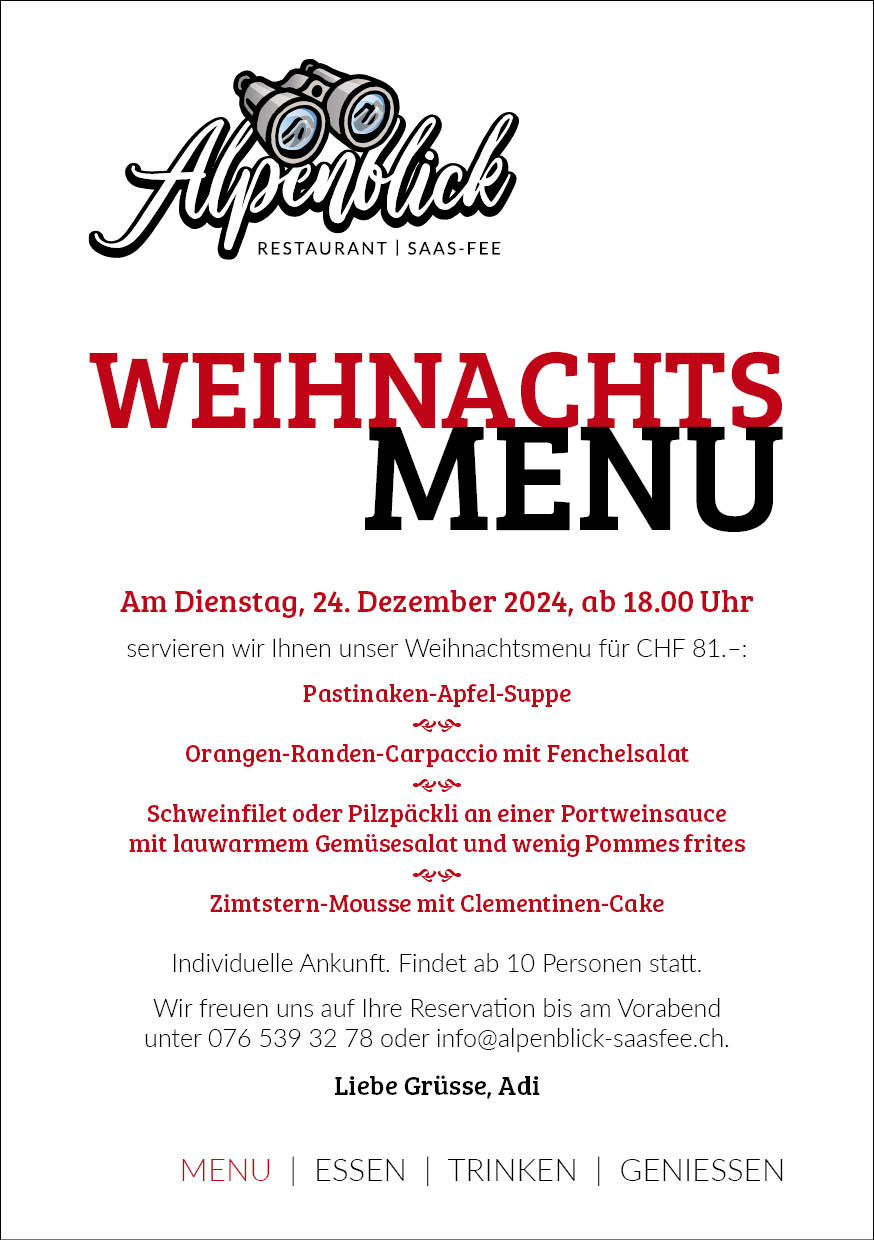
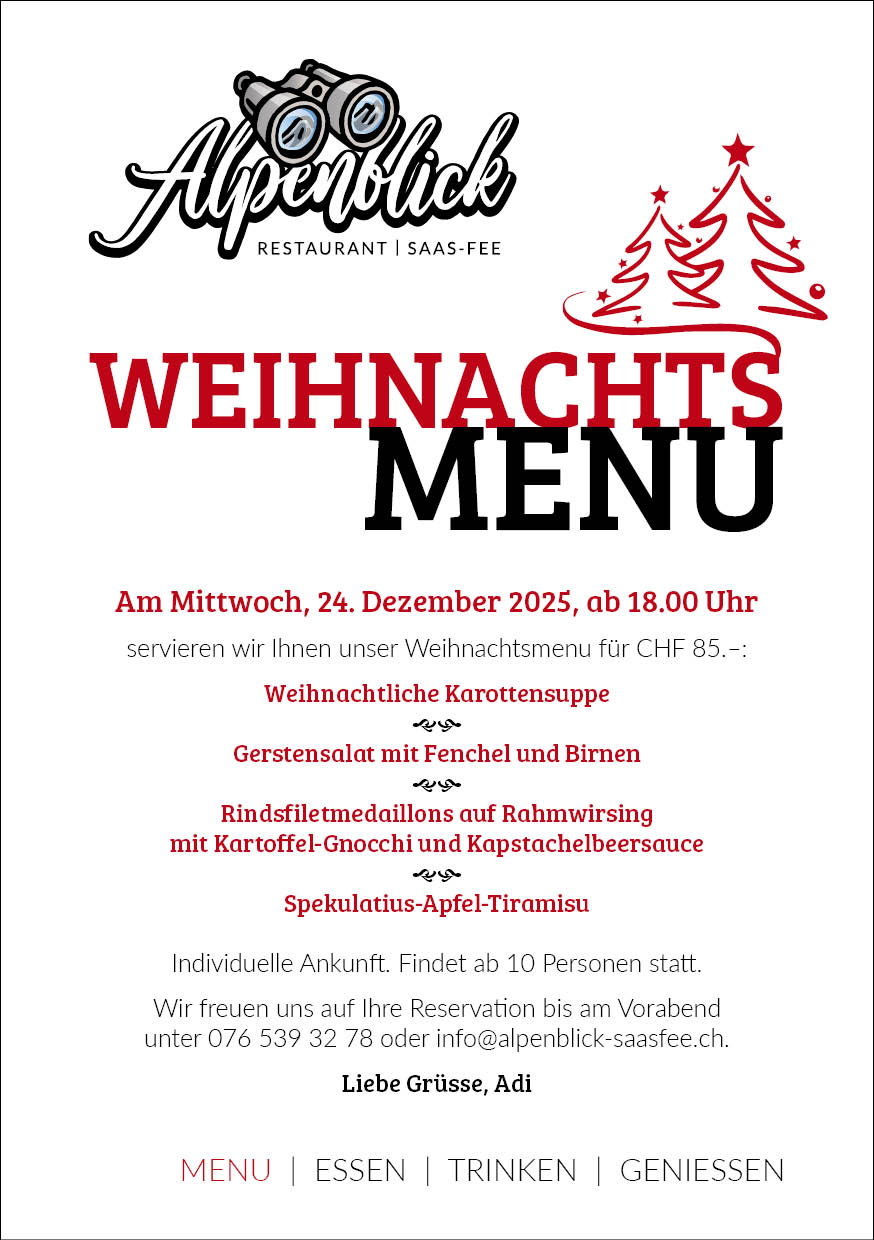
update homepage

diff --git a/content/_index.md b/content/_index.md
@@ -116,7 +116,7 @@ Unser kleines, aber feines <a href="images/Alpenblick_Flyer_Uebernachten_2022.jp
 * Sonntag, 1. Februar 2026: <a href="images/Alpenblick_Flyer_Vollmond_Raclette_Plausch.jpg" target="_blank"> Vollmond Raclette</a>
 * Montag, 2. März 2026: <a href="images/Alpenblick_Flyer_Vollmond_Raclette_Plausch.jpg" target="_blank"> Vollmond Raclette</a>
 * Donnerstag, 2. April 2026: <a href="images/Alpenblick_Flyer_Vollmond_Raclette_Plausch.jpg" target="_blank"> Vollmond Raclette</a>
-* Mittwoch, 24. Dezember 2025: Weihnachtsmenu
+* Mittwoch, 24. Dezember 2025:  <a href="images/Alpenblick_Flyer_Weihnachtsmenu.jpg" target="_blank"> Weihnachtsmenu</a>
 * Donnerstag, 25. Dezember 2025: <a href="images/Alpenblick_Flyer_Christmas_Fondue.jpg" target="_blank"> Christmas Fondue</a>
 
 <!-- * Mittwoch, 24. Dezember 2025: <a href="images/Alpenblick_Flyer_Weihnachtsmenu.jpg" target="_blank"> Weihnachtsmenu</a> -->
